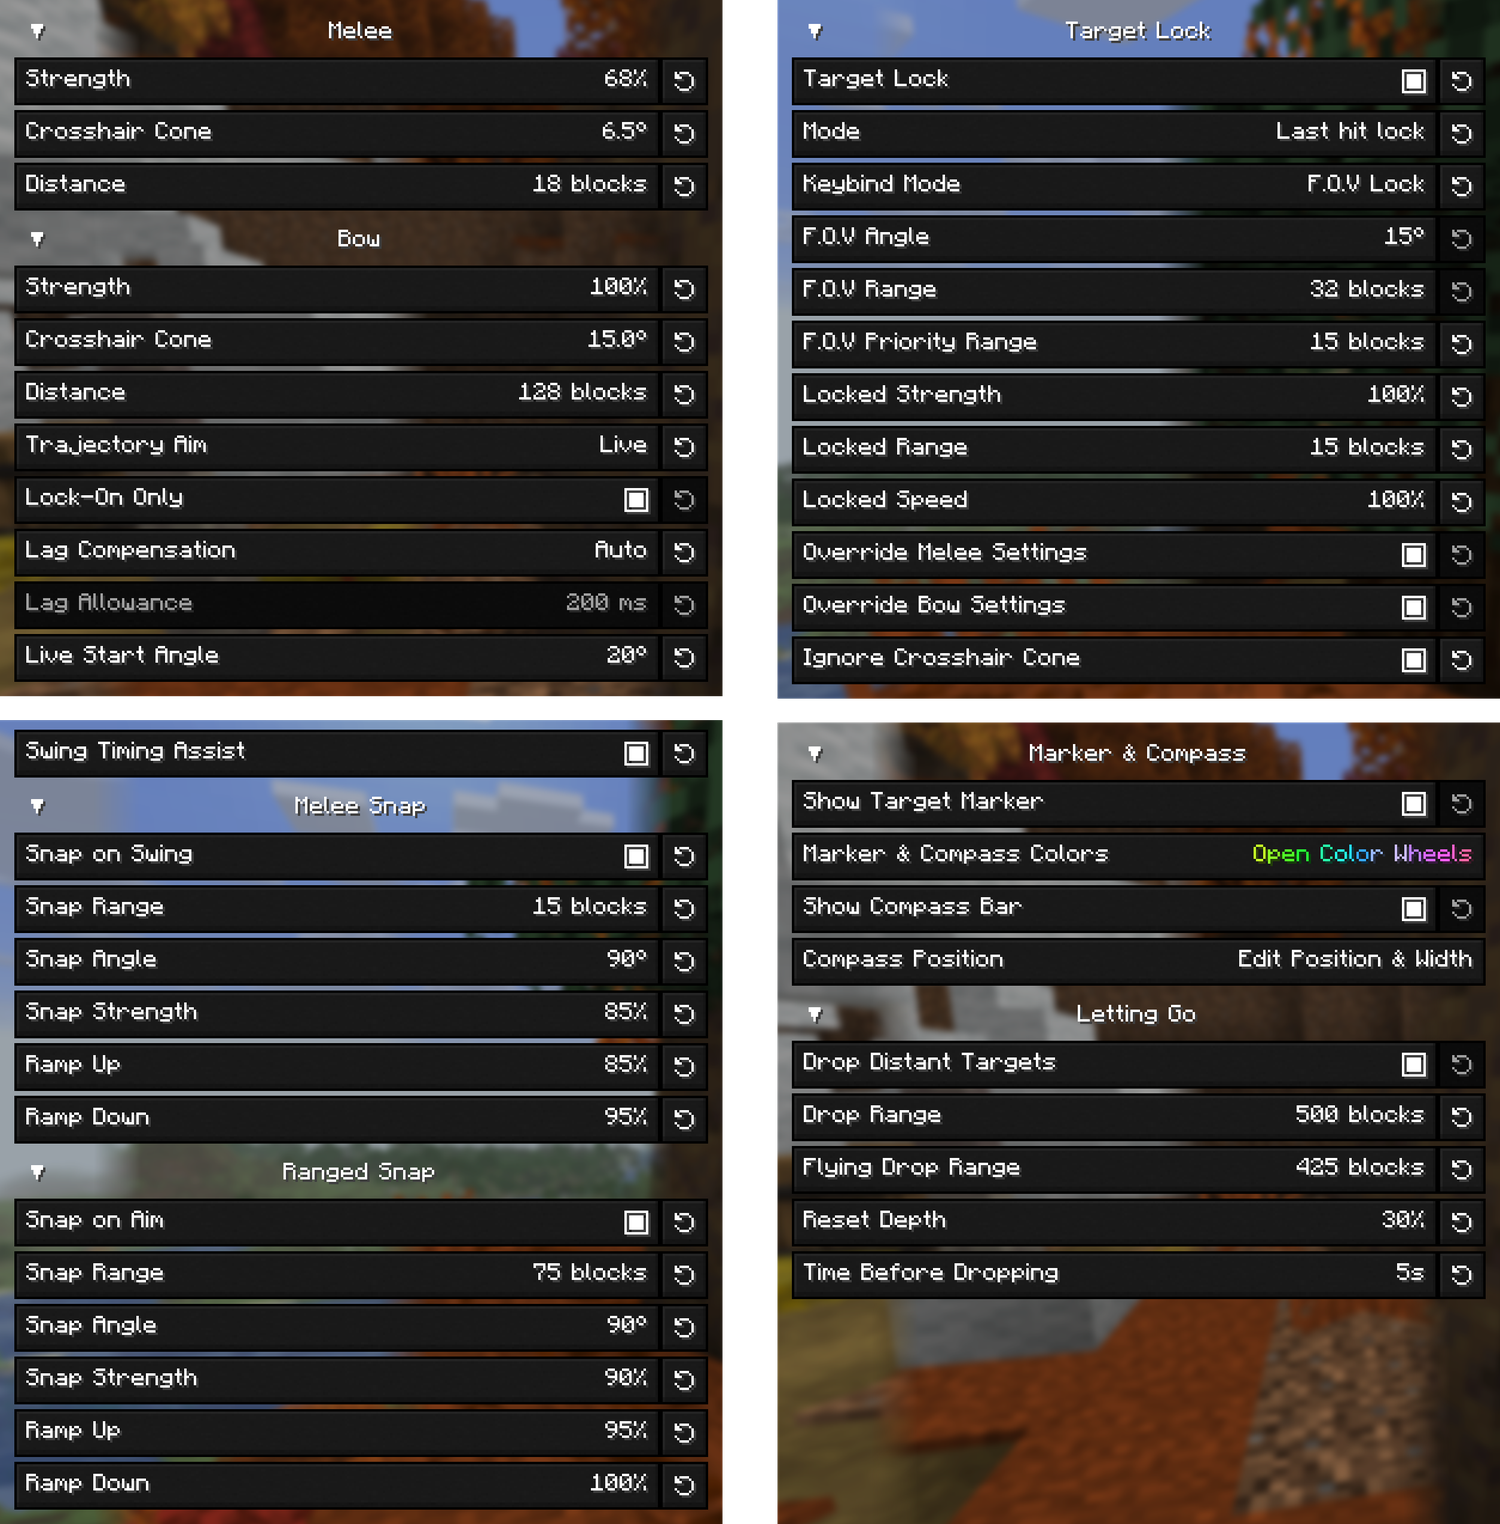
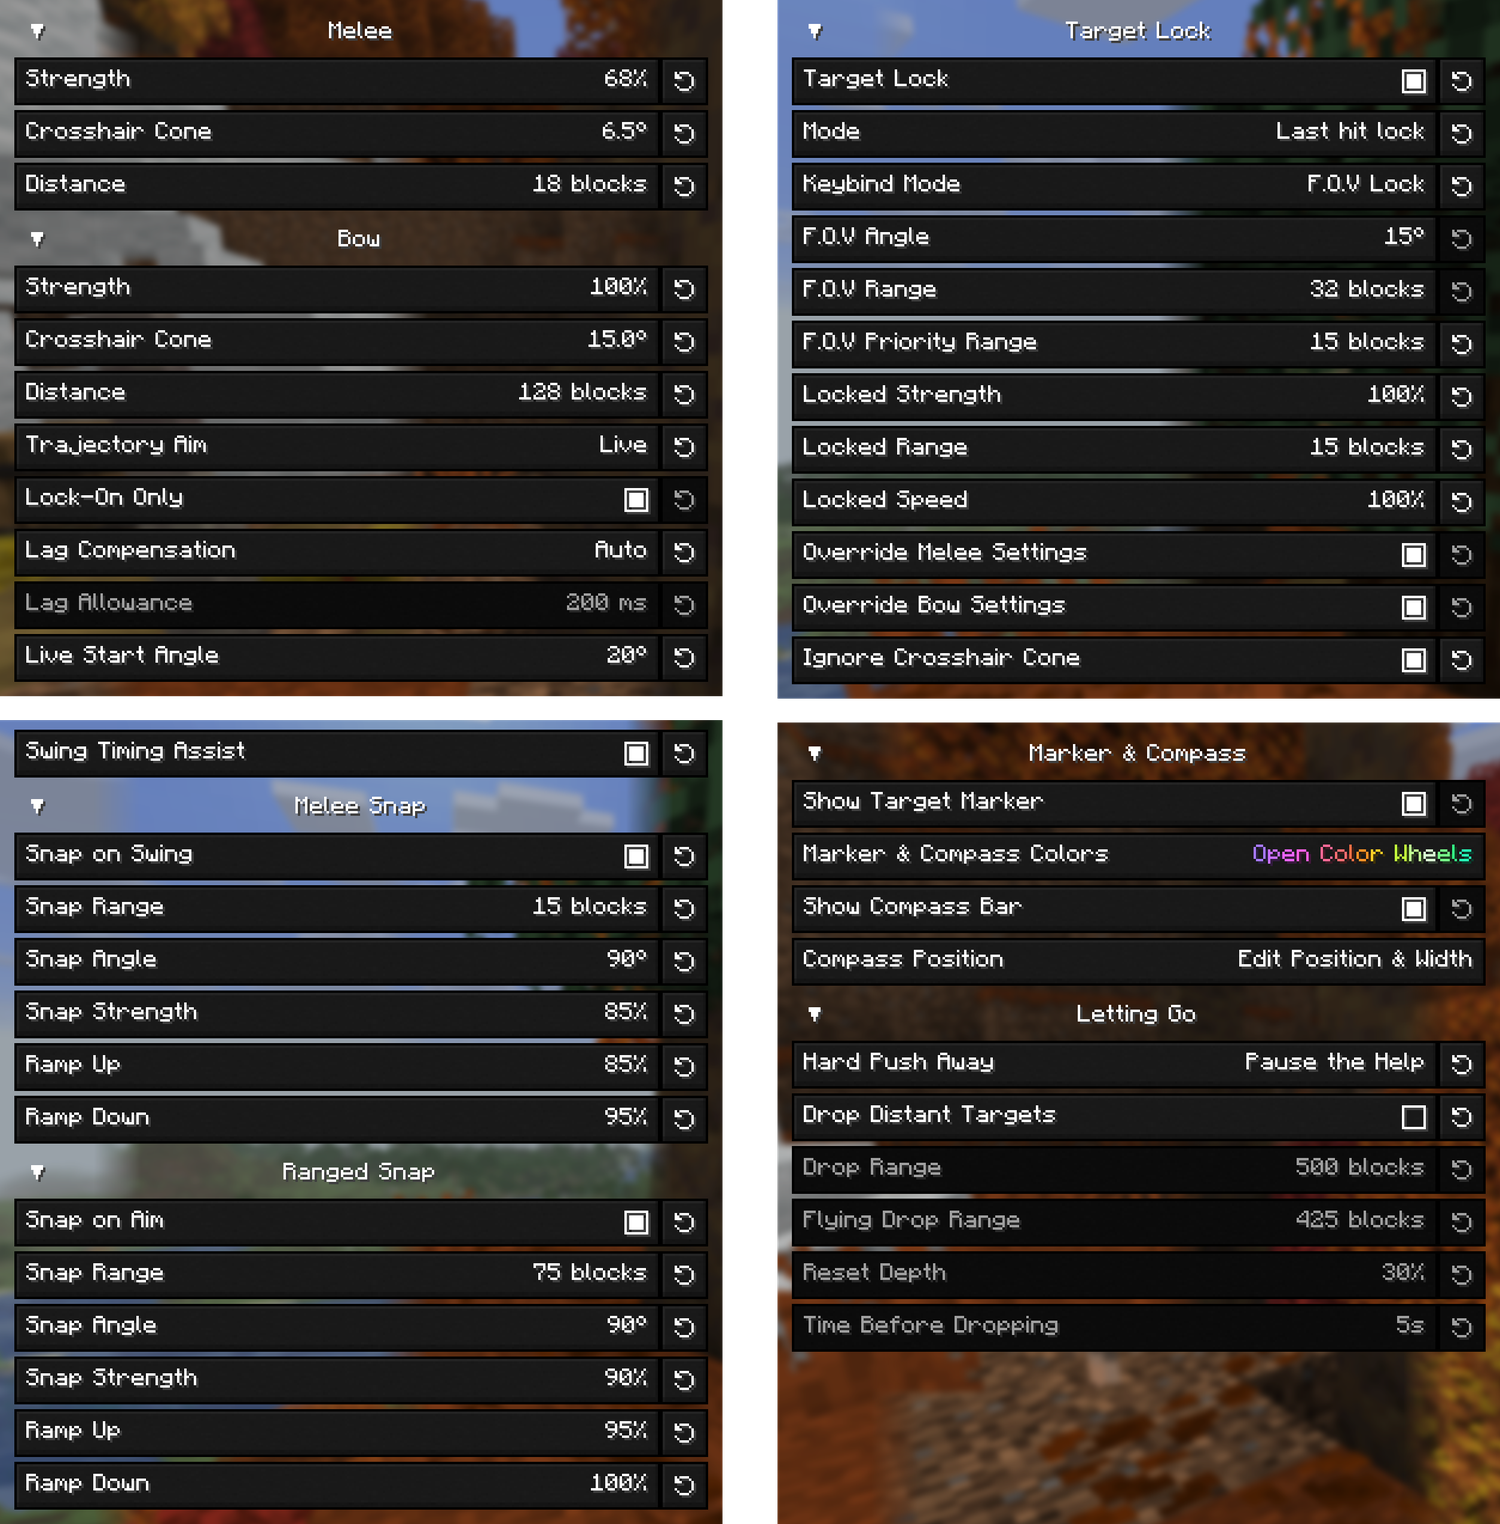
Release 3.5.3-3.5
Version 3.5.3-3.5. The README gains Hard Push Away under Letting Go, the
number pad on the Dev Functions boxes, and a Fixes entry for the on-screen
keyboard on 26.3; its picture of the Aim Help, Snaps, Lock-On and Extras tabs
is composed again with the Extras tab as it is now, one row taller.

Claude-Session: https://claude.ai/code/session_01AEcWqaqrnFSCehLYewYoPh

diff --git a/README.md b/README.md
@@ -26,6 +26,7 @@ Controller aim assist with target lock, a few quality-of-life changes, and fixes
 
 - ["New server detected" toast](#new-server-detected-toast) — only shown when it applies.
 - [One controller counted twice](#one-controller-counted-twice) — a pad Windows reports twice is held once.
+- [On-screen keyboard on 26.3](#on-screen-keyboard-on-263) — what you type, and backspace, reach the text box again.
 
 **Testing**
 
@@ -130,7 +131,7 @@ While a target is locked, **Locked Strength**, **Locked Range** (up to 500 block
 > [!WARNING]
 > This tracks a mob for you rather than helping aim you're already making. That's an unfair advantage over players without Controlify, and many anti-cheats will likely flag it. Use it in singleplayer, or where everyone knows you have it and is fine with it.
 
-**Letting Go**, on the **Extras** tab — with **Drop Distant Targets** off, a lock only ends when the mob dies or you clear it. Turn it on and the lock drops once you've been further than **Drop Range** (or **Flying Drop Range**) from the mob for longer than **Time Before Dropping**. **Reset Depth** is how far back inside you have to come to reset the timer. The four sliders stay greyed out until Drop Distant Targets is on.
+**Letting Go**, on the **Extras** tab, is how a lock ends without holding Lock Target. **Hard Push Away** is what pushing the look stick hard away from the locked mob for a moment does — the same push that lets go of a mob Trajectory Aim is holding: **Off**, nothing, as before; **Drop the Lock** drops it outright, marker and compass with it; **Pause the Help** keeps the lock and the marker but takes the aim help off the mob so the camera is yours, until you ease the stick back. Off to start with. With **Drop Distant Targets** off, a lock otherwise only ends when the mob dies or you clear it. Turn it on and the lock drops once you've been further than **Drop Range** (or **Flying Drop Range**) from the mob for longer than **Time Before Dropping**. **Reset Depth** is how far back inside you have to come to reset the timer. The four sliders stay greyed out until Drop Distant Targets is on.
 
 #### Compass bar
 
@@ -201,13 +202,17 @@ The official mod shows this toast on Realms even though analog movement already 
 
 On Windows, one pad can be reported twice — through XInput and through GameInput — so it arrived as two controllers, with two toasts, swapping on every replug. This build keeps one. It's an upstream bug that also happens on the official 3.5.3, and launching with `-Dcontrolify.sdl.dedupe=0` turns the fix off.
 
+### On-screen keyboard on 26.3
+
+Minecraft 26.3 moved its input from GLFW to SDL, and two things in the official mod's on-screen keyboard didn't survive the move: the text box the keyboard was opened for lost its focus the moment the keyboard came up, so nothing typed reached it; and backspace, delete, the arrows, home and end did nothing, because the key presses were built without the keycode 26.3 reads. This build fixes both, in every text box — search boxes, direct connect, the chat box, signs — and puts the "Press A to open keyboard" hint where the box's own text sits, so it's no longer cut off in the creative inventory's search box.
+
 ---
 
 ## Testing
 
 ### Dev Functions panel
 
-A panel in Global Settings for triggering things on demand while testing: **New Server Toast**, **Check Aim Assist Target**, **Check Target Lock**, **Movement Type** and **Controller Connection**, plus **Marker Floor (blocks)** and **Color pointer speed** to type values into. The checkbox below it hides it.
+A panel in Global Settings for triggering things on demand while testing: **New Server Toast**, **Check Aim Assist Target**, **Check Target Lock**, **Movement Type** and **Controller Connection**, plus **Marker Floor (blocks)** and **Color pointer speed** to type values into — with a controller, they open a number pad rather than the whole keyboard. The checkbox below it hides it.
 
 <p align="center">
   <img alt="The Dev Functions panel" src="assets/fork/dev-functions-panel.png" width="620">
